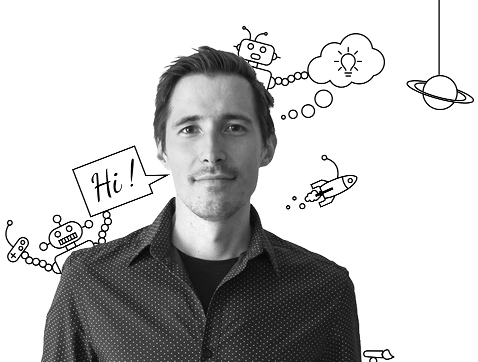
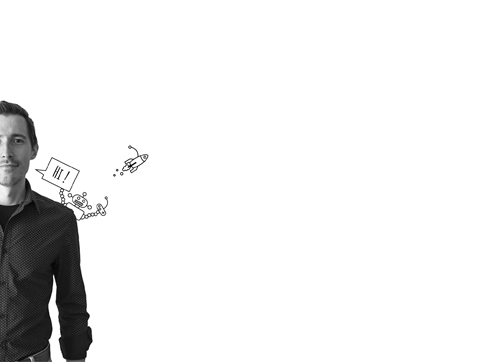
section one responsiveness

diff --git a/index.html b/index.html
@@ -75,7 +75,7 @@
         </div>
 </div>
         <div class="row justify-content-center">
-            <div class="col-4">
+            <div class="col-8 col-sm-6 col-md-5 col-lg-5">
               <h3>UX</h3>
               <p class="light-text">Durch mein Studium und mittlerweile sieben Jahre Berufserfahrung als Vollzeit-UX/UI Designer bei <a class="lighttextlink lightlinkanimation" href="https://www.anton-paar.com/at-de">Anton Paar GmbH</a> bin ich  Experte in allen Teilbereichen des User Centered Design Prozesses:  </p>
               <p class="light-text-bold">  User Requirements Engineering - Konzeption - Design - Usability Testing Methods. </p>
@@ -83,7 +83,7 @@
             
             </div>
 
-            <div class="col-4">
+            <div class="col-8 col-sm-6 col-md-5 col-lg-5">
                 <h3>Graphic Design</h3>
                 <p class="light-text">Als Selsbstständiger Grafik-Designer arbeite ich neben meiner Festanstellung vorallem für kleinere Firmen und Start Ups und 
                     gestalte </p> 

diff --git a/style.css b/style.css
@@ -246,7 +246,7 @@ hr#thirdline {
 
 @media(max-width: 767px) {
   .background {
-    background-image: none;
+    background-image: url("./img/herotablet.jpg");
   }
   h1 {
     font-size: 3rem;
